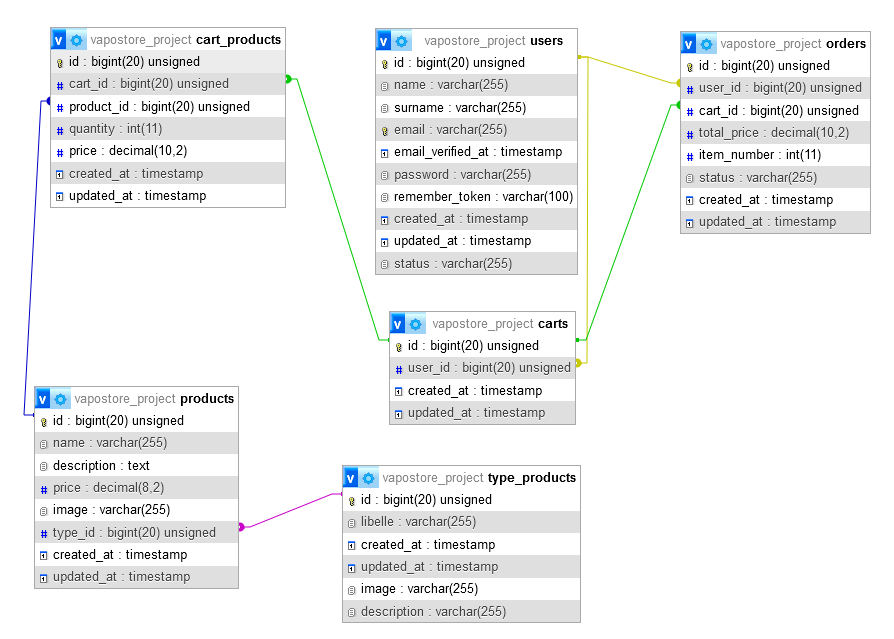
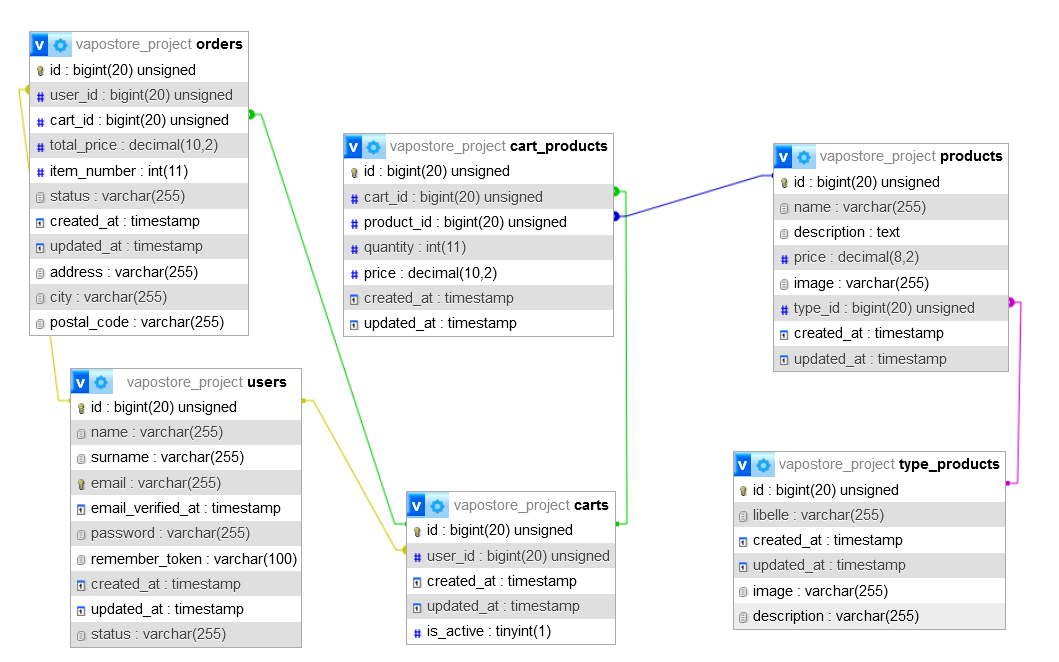
update

diff --git a/backend/database/migrations/2025_01_26_175702_update_for_postgre_s_q_l.php b/backend/database/migrations/2025_01_26_175702_update_for_postgre_s_q_l.php
@@ -1,0 +1,92 @@
+<?php
+
+use Illuminate\Database\Migrations\Migration;
+use Illuminate\Database\Schema\Blueprint;
+use Illuminate\Support\Facades\Schema;
+
+return new class extends Migration
+{
+    /**
+     * Run the migrations.
+     */
+    public function up(): void
+    {
+        // Table Users
+        Schema::create('users', function (Blueprint $table) {
+            $table->id();
+            $table->string('name');
+            $table->string('surname')->nullable();
+            $table->string('email')->unique();
+            $table->timestamp('email_verified_at')->nullable();
+            $table->string('password');
+            $table->rememberToken();
+            $table->string('status')->default('user');
+            $table->timestamps();
+        });
+
+        // Table Type Products
+        Schema::create('type_products', function (Blueprint $table) {
+            $table->id();
+            $table->string('libelle');
+            $table->string('image')->nullable();
+            $table->string('description')->nullable();
+            $table->timestamps();
+        });
+
+        // Table Products
+        Schema::create('products', function (Blueprint $table) {
+            $table->id();
+            $table->string('name');
+            $table->text('description')->nullable();
+            $table->decimal('price', 8, 2);
+            $table->string('image')->nullable();
+            $table->foreignId('type_id')->constrained('type_products')->onDelete('cascade');
+            $table->timestamps();
+        });
+
+        // Table Carts
+        Schema::create('carts', function (Blueprint $table) {
+            $table->id();
+            $table->foreignId('user_id')->constrained('users')->onDelete('cascade');
+            $table->boolean('is_active')->default(true);
+            $table->timestamps();
+        });
+
+        // Pivot Table Cart_Products
+        Schema::create('cart_products', function (Blueprint $table) {
+            $table->id();
+            $table->foreignId('cart_id')->constrained('carts')->onDelete('cascade');
+            $table->foreignId('product_id')->constrained('products')->onDelete('cascade');
+            $table->integer('quantity')->default(1);
+            $table->decimal('price', 10, 2);
+            $table->timestamps();
+        });
+
+        // Table Orders
+        Schema::create('orders', function (Blueprint $table) {
+            $table->id();
+            $table->foreignId('user_id')->constrained('users')->onDelete('cascade');
+            $table->foreignId('cart_id')->constrained('carts')->onDelete('cascade');
+            $table->decimal('total_price', 10, 2);
+            $table->integer('item_number');
+            $table->string('status')->default('pending');
+            $table->string('address')->nullable();
+            $table->string('city')->nullable();
+            $table->string('postal_code')->nullable();
+            $table->timestamps();
+        });
+    }
+
+    /**
+     * Reverse the migrations.
+     */
+    public function down(): void
+    {
+        Schema::dropIfExists('orders');
+        Schema::dropIfExists('cart_products');
+        Schema::dropIfExists('carts');
+        Schema::dropIfExists('products');
+        Schema::dropIfExists('type_products');
+        Schema::dropIfExists('users');
+    }
+};
